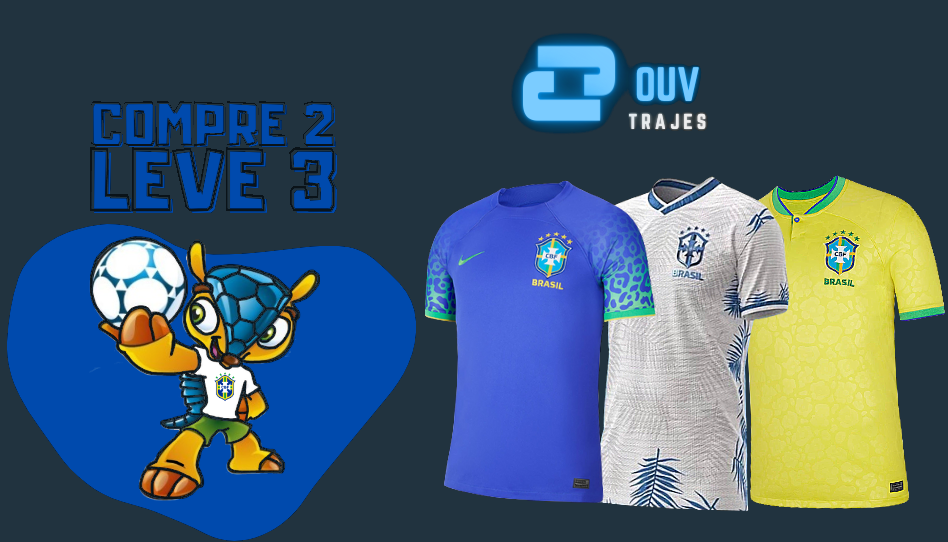
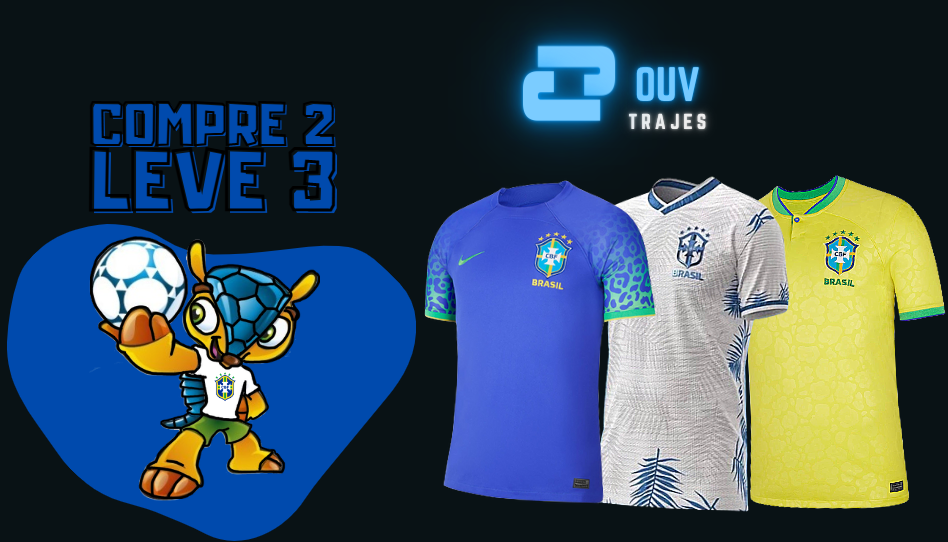
Create the index page

diff --git a/src/pages/index.page.tsx b/src/pages/index.page.tsx
@@ -1,11 +1,37 @@
-import { Banner } from './styled.index';
+import { About, Banner, Title } from './styled.index';
+
 import ouvBanner from '/public/banner.png';
+import ouvShirts from '/public/shirts.png';
 
 import Image from 'next/image';
 export default function Page() {
     return (
-        <Banner>
-            <Image src={ouvBanner} alt="banner" />
-        </Banner>
+        <>
+            <Banner>
+                <Image src={ouvBanner} alt="banner" />
+            </Banner>
+
+            <About>
+                <div className="about-text ms-5">
+                    <Title className="mb-5">Sobre a nossa empresa</Title>
+                    <p>
+                        ESPECIALIZADA EM CAMISAS DE FUTEBOL E ARTIGOS
+                        ESPORTIVOS, A LOJA VIRTUAL SURGIU EM 2022 NA CIDADE DE
+                        SALVADOR(BA) E REÚNE UNIFORMES COMPLETOS DOS MAIS
+                        VARIADOS CLUBES BRASILEIROS, INTERNACIONAIS E SELEÇÕES -
+                        DOS MAIS CONSAGRADOS AOS MENOS CONHECIDOS. COM A MAIOR
+                        VARIEDADE EM CAMISAS DE TIMES DE FUTEBOL NO MERCADO
+                        NACIONAL, A OUV TRABALHA EM PARCERIA COM AS PRINCIPAIS
+                        MARCAS ESPORTIVAS PARA COMERCIALIZAR SOMENTE PRODUTOS
+                        ORIGINAIS E COM GARANTIA DE QUALIDADE. ALÉM DISSO, A
+                        LOJA POSSUI CERTIFICADOS DE SEGURANÇA QUE OFERECEM AO
+                        CLIENTE UM AMBIENTE DE COMPRA CONFIÁVEL.
+                    </p>
+                </div>
+                <div className="about-image me-5">
+                    <Image src={ouvShirts} alt="shirts"></Image>
+                </div>
+            </About>
+        </>
     );
 }

diff --git a/src/pages/styled.index.ts b/src/pages/styled.index.ts
@@ -1,4 +1,4 @@
-import styled from "styled-components";
+import styled from 'styled-components';
 
 export const Banner = styled.div`
     display: flex;
@@ -6,4 +6,36 @@ export const Banner = styled.div`
     align-items: center;
     width: 100%;
     height: 600px;
-`
+`;
+
+export const About = styled.div`
+    margin: 50px;
+    display: flex;
+    justify-content: space-around;
+
+    width: 100%;
+
+    div {
+        width: 40%;
+    }
+
+    h1,
+    p {
+        font-family: 'Anton', sans-serif;
+        font-weight: bold;
+    }
+
+    p {
+        font-size: 1.5em;
+        line-height: 1.25em;
+    }
+`;
+
+export const Title = styled.h1`
+    font-style: italic;
+    color: #0353ff;
+    font-size: 3.3em;
+    text-transform: uppercase;
+    font-weight: bold;
+    font-family: 'Anton', sans-serif;
+`;

diff --git a/src/pages/_document.tsx b/src/pages/_document.tsx
@@ -3,7 +3,14 @@ import { Html, Head, Main, NextScript } from 'next/document';
 export default function Document() {
     return (
         <Html lang="pt-br">
-            <Head />
+            <Head>
+                <link rel="preconnect" href="https://fonts.googleapis.com" />
+                <link rel="preconnect" href="https://fonts.gstatic.com" />
+                <link
+                    href="https://fonts.googleapis.com/css2?family=Anton&display=swap"
+                    rel="stylesheet"
+                />
+            </Head>
             <body>
                 <Main />
                 <NextScript />

diff --git a/src/assets/globalStyle.ts b/src/assets/globalStyle.ts
@@ -1,7 +1,7 @@
 import { createGlobalStyle } from 'styled-components';
 
 export const primaryColor = '#21333f';
-export const primaryDarkColor = '#01131f';
+export const primaryDarkColor = '#091215';
 export const primaryLightColor = '#91a3af';
 
 export const GlobalStyle = createGlobalStyle`
@@ -19,7 +19,7 @@ export const GlobalStyle = createGlobalStyle`
 
     body {
         color: #fff;
-        background: ${primaryColor};
+        background: ${primaryDarkColor};
     }
 
     a {
